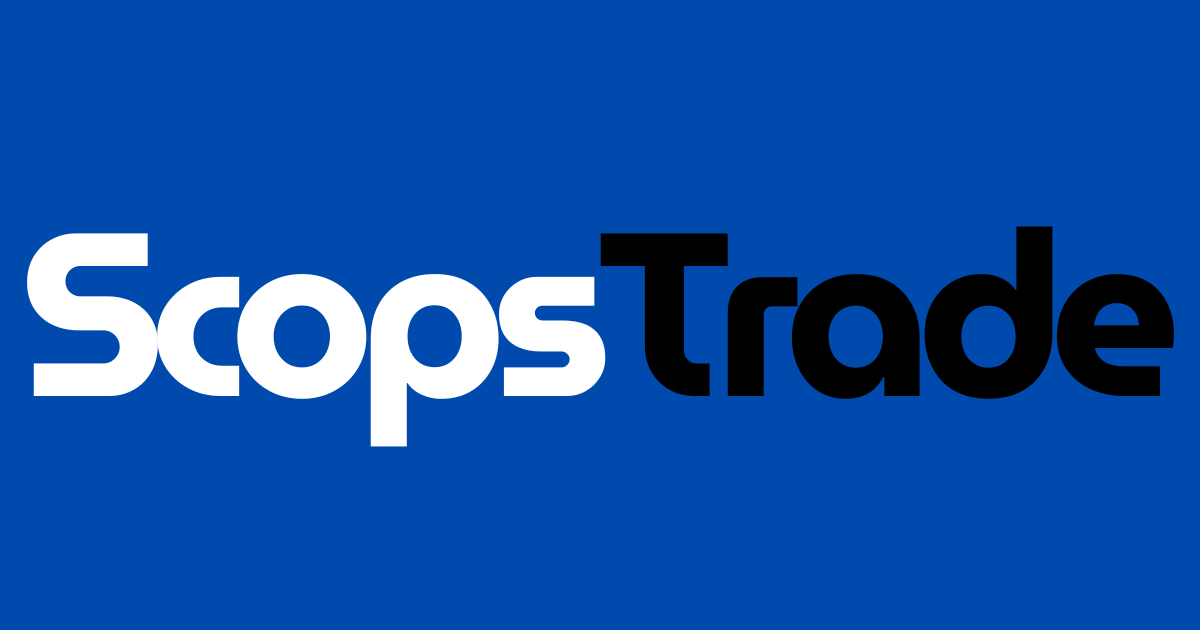
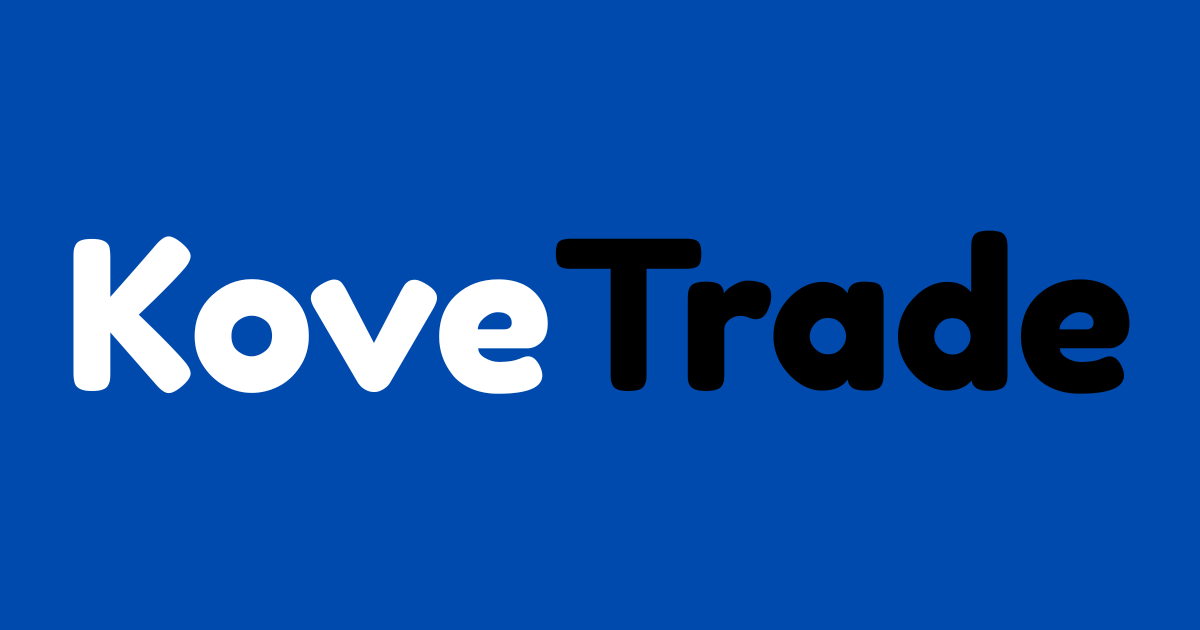
final deploy before landing page

Changed region(s): [[0.0, 0.3619, 0.9867, 0.7238]]

diff --git a/app/layout.tsx b/app/layout.tsx
@@ -19,7 +19,7 @@ const jetbrainsMono = JetBrains_Mono({
 });
 
 export const metadata: Metadata = {
-  metadataBase: new URL("https://scopstrade.com"),
+  metadataBase: new URL("https://kovetrade.com"),
   title: {
     default: "KoveTrade - Copy Futures, Options & Contracts with Precision",
     template: "%s | KoveTrade",
@@ -68,10 +68,10 @@ export default function RootLayout({
 
         {/* LiveChat - Jovo */}
 
-        <Script
+        {/* <Script
           src="//code.jivosite.com/widget/jZikVtEDhl"
           strategy="afterInteractive"
-        />
+        /> */}
       </body>
     </html>
   );

diff --git a/components/site/FeaturesSection.tsx b/components/site/FeaturesSection.tsx
@@ -69,7 +69,7 @@ const FeaturesSection = () => {
             Platform Features
           </p>
           <h2 className="text-3xl font-bold tracking-tight lg:text-4xl">
-            Why choose ScopsTrade
+            Why choose KoveTrade
           </h2>
           <p className="mx-auto mt-4 max-w-2xl text-sm leading-relaxed text-gray-500 dark:text-gray-400 lg:text-base">
             The most advanced copy trading platform with enterprise-grade

diff --git a/components/site/Footer.tsx b/components/site/Footer.tsx
@@ -74,7 +74,7 @@ const Footer = () => {
                 title="CONTACT"
                 links={[
                   { label: "+1 (929) 512-0241", href: "#" },
-                  { label: "support@scopstrade.com", href: "mailto:support@scopstrade.com" },
+                  { label: "support@kovetrade.com", href: "mailto:support@kovetrade.com" },
                 ]}
               />
             </div>

diff --git a/components/site/OnboardingLoading.tsx b/components/site/OnboardingLoading.tsx
@@ -118,7 +118,7 @@ const OnboardingLoading = () => {
                 transition={{ delay: 0.2 }}
               >
                 <h1 className="text-2xl font-bold text-gray-900 dark:text-white tracking-tight">
-                  SCOPS
+                  KOVE
                   <span className="text-blue-500">TRADE</span>
                 </h1>
               </motion.div>

diff --git a/app/sitemap.ts b/app/sitemap.ts
@@ -1,7 +1,7 @@
 import type { MetadataRoute } from "next";
 
 export default function sitemap(): MetadataRoute.Sitemap {
-  const baseUrl = "https://scopstrade.com";
+  const baseUrl = "https://kovetrade.com";
 
   return [
     {
